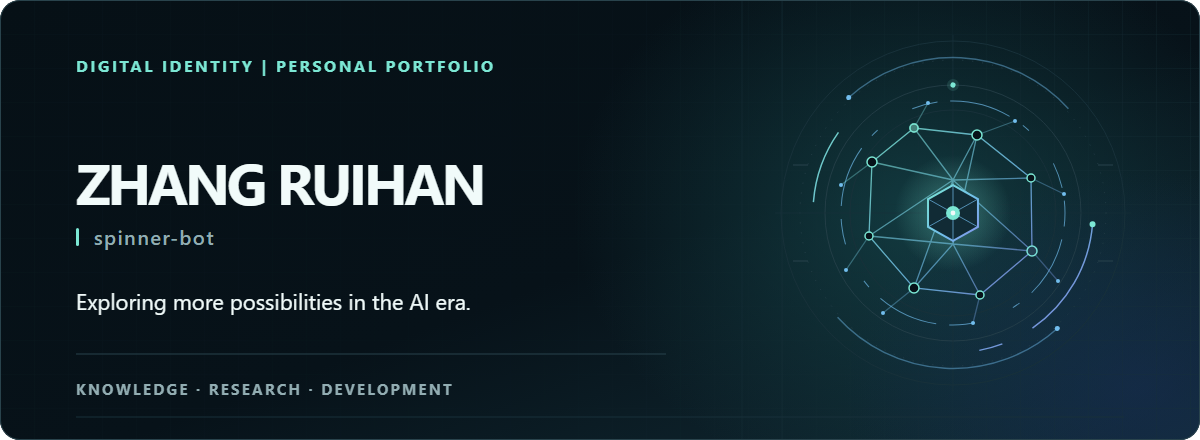
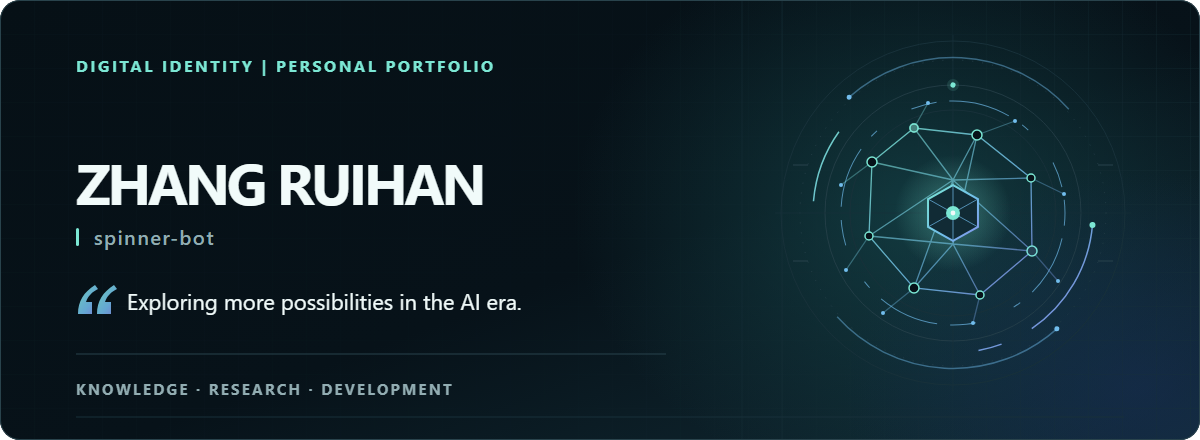
Add opening quote accent to profile statement

Changed region(s): [[0.0617, 0.65, 0.4317, 0.7386]]

diff --git a/docs/design/hero-card-v3.md b/docs/design/hero-card-v3.md
@@ -23,7 +23,7 @@
 
 - 画布 1200 × 440，作为 README 全宽图片引用；背景 `#071219`，内圆角 20。
 - 左侧文字起点 x=76；右侧视觉中心约 (942, 215)，主图直径约 330。
-- 顶部标签在 y≈72；姓名在 y≈205；概括句在 y≈307；底部关键词在 y≈390。
+- 顶部标签在 y≈72；姓名在 y≈205；概括句在 y≈307；底部关键词在 y≈390。概括句左侧用一枚独立的矢量开引号，句子从 x=127 开始；不加闭引号，避免符号围住整行。
 - 底部关键词使用细分隔线和小型三节点序列，与右侧计算图形在形式上呼应。
 - 字体采用系统回退栈，重点在文字的尺寸、字重与留白，而非外部网络字体。
 - 色彩：深青黑背景，白青色主字，灰蓝次级字，薄荷青主强调，少量蓝紫光晕。
